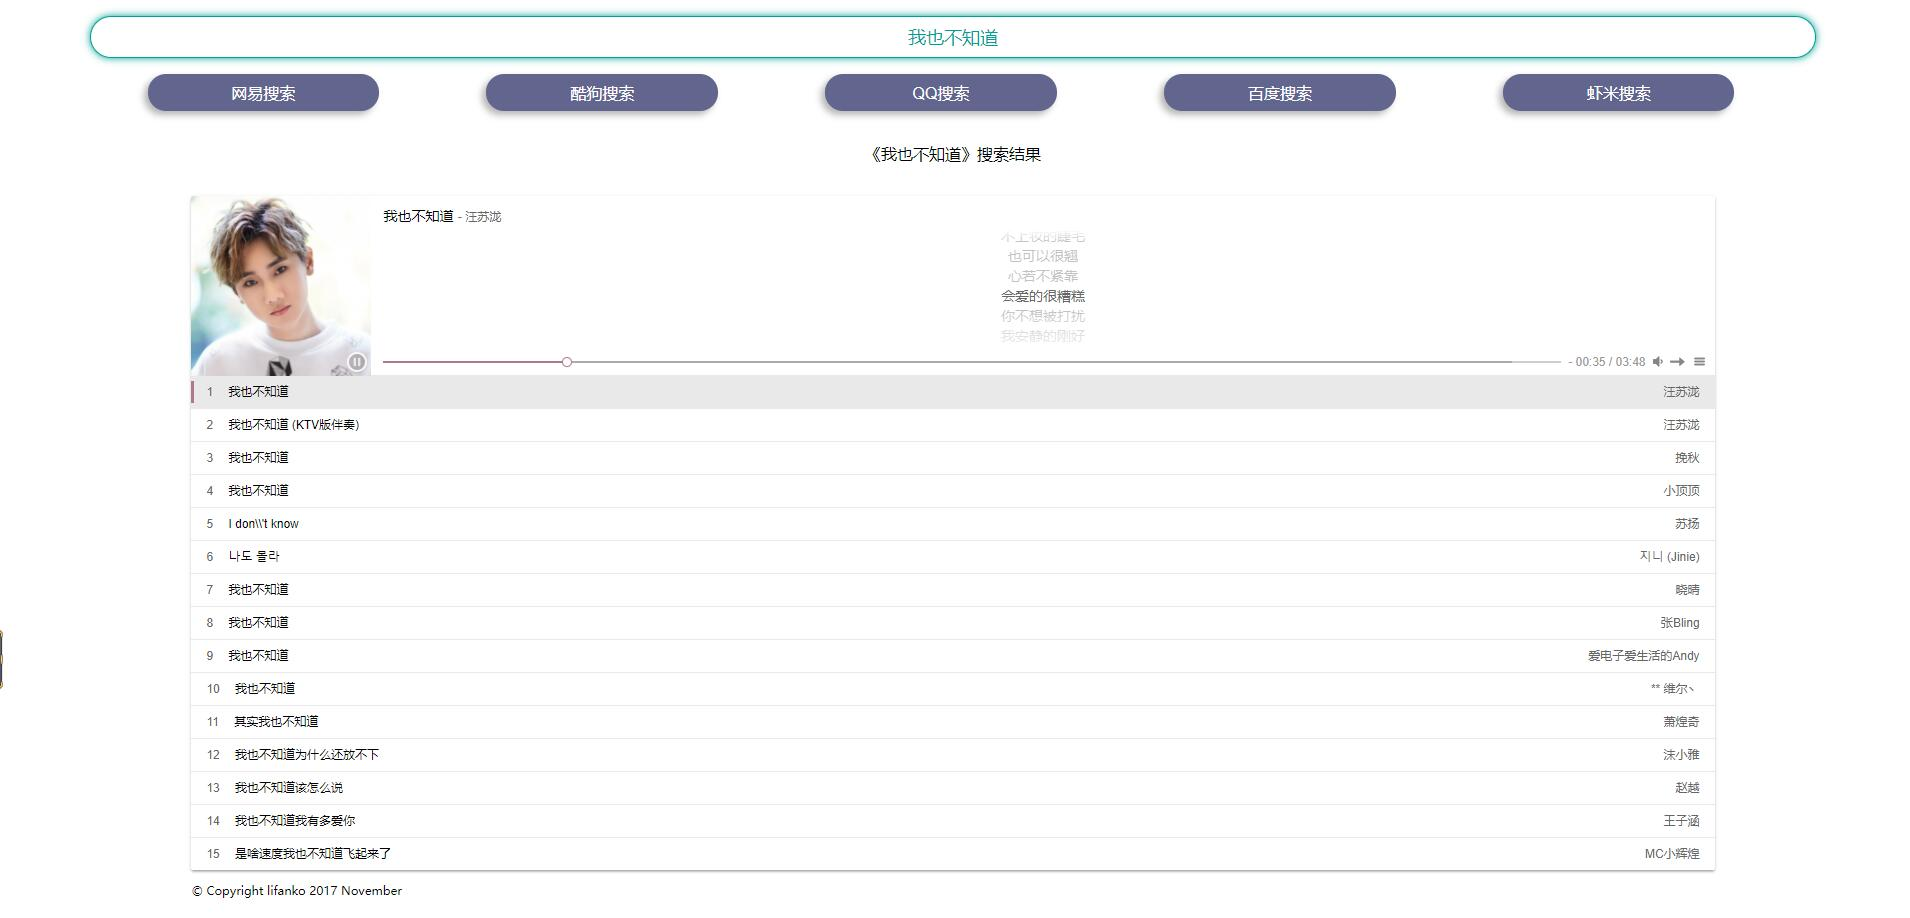
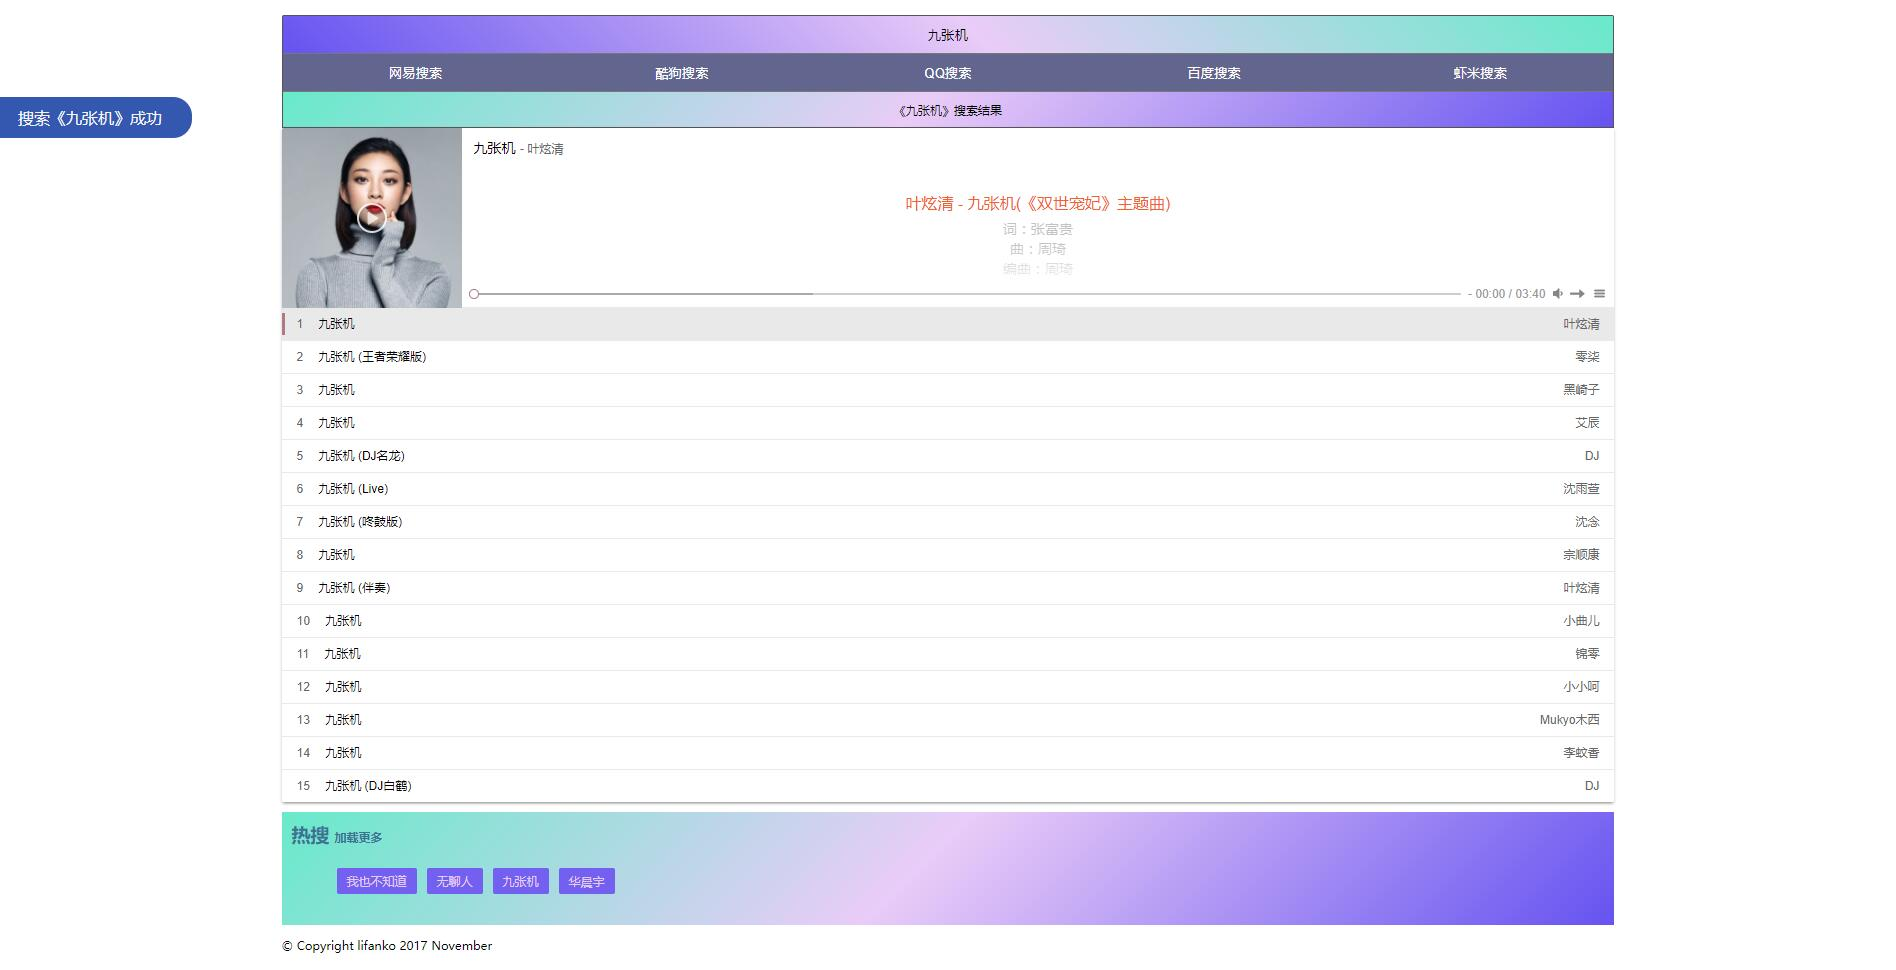
添加 热搜排名，提示交互 修改 歌词样式

diff --git a/index.html b/index.html
@@ -4,77 +4,104 @@
     <meta charset="UTF-8">
     <title>橡皮音乐</title>
     <style>
-        .box input {
-            display: block;
-            height: 30px;
-            text-align: center;
-            width: 90%;
+        .container {
+            width: 70%;
             margin: 1pc auto;
-            color: #009f95;
-            border: 1px #009f95 solid;
-            border-radius: 25px;
-            font-size: 18px;
-            outline: none;
-            padding: 5px;
-            box-shadow: 0 0 12px 0 #009f95;
+            min-width: 640px;
         }
 
-        .box .btns {
-            width: 90%;
-            margin: 0 auto;
+        .box {
+            border: #555 1px solid;
+            border-top-left-radius: 2px;
+            border-top-right-radius: 2px;
         }
 
-        .box button {
-            width: 13.5%;
-            margin: 0 3%;
+        .box input {
+            width: 100%;
+            height: 35px;
+            text-align: center;
+            border: none;
+            background-image: linear-gradient(-135deg, #69EACB 0%, #EACCF8 48%, #6654F1 100%);
+            border-bottom: #777 1px solid;
+        }
+
+        .box .btns button {
+            width: 20%;
+            padding: 10px 0;
             color: white;
             background-color: #62658d;
-            border-radius: 30px;
             border: none;
-            font-size: 16px;
-            padding: 0.5pc;
-            box-shadow: -4px 4px 10px 0 #b7b7b7;
-            outline: none;
             transition: all 0.3s 0s;
-            cursor: pointer;
+            border-bottom: #777 1px solid;
+            outline: none;
         }
 
-        .box button:hover {
-            background-color: #009f95;
-            color: white;
-            border-radius: 10px;
+        .box .btns button:hover {
+            background-color: #d34000;
+            cursor: pointer;
         }
 
         #search {
             text-align: center;
-            margin: 2pc 0;
+            height: 25px;
+            font-size: 12px;
+            padding-top: 10px;
+            background-image: linear-gradient(-225deg, #69EACB 0%, #EACCF8 48%, #6654F1 100%);
+            cursor: default;
         }
 
         #player {
-            width: 80%;
             margin: 0 auto;
+        }
+
+        .hotWord{
+            background-image: linear-gradient(-225deg, #69EACB 0%, #EACCF8 48%, #6654F1 100%);
+            color: #3b7294;
+            padding: 10px;
+            margin-top: 10px;
+        }
+
+        .hotWord h3{
+            margin: 0;
+        }
+
+        #hotSearch{
+            list-style: none;
+        }
+        #hotSearch li{
+            display: inline-block;
+            background-color: #7460f0;
+            color: #e2cdf5;
+            padding: 5px 10px;
+            margin: 5px;
+            font-size: 12px;
+            border-radius: 2px;
         }
     </style>
 </head>
 <body>
-<div class="box">
-    <input type="text" placeholder="输入歌曲名" id="name" autocomplete="off">
-    <div class="btns">
-        <button onclick="search('netease')">网易搜索</button>
-        <button onclick="search('kugou')">酷狗搜索</button>
-        <button onclick="search('tencent')">QQ搜索</button>
-        <button onclick="search('baidu')">百度搜索</button>
-        <button onclick="search('xiami')">虾米搜索</button>
+<div class="container">
+    <div class="box">
+        <input type="text" placeholder="输入 歌曲/歌手/专辑 以进行搜索" id="name" autocomplete="off">
+        <div class="btns">
+            <button onclick="search('netease')">网易搜索</button><button onclick="search('kugou')">酷狗搜索</button><button onclick="search('tencent')">QQ搜索</button><button onclick="search('baidu')">百度搜索</button><button onclick="search('xiami')">虾米搜索</button>
+        </div>
+        <div id="search">默认列表</div>
     </div>
+
+    <div id="player" class="aplayer"></div>
+    <div id="tip" style="color: whitesmoke"></div>
+    <div class="hotWord">
+        <h3>热搜 <a onclick="getHotSearch()" style="font-size: 12px;cursor: pointer;">加载更多</a></h3>
+        <ul id="hotSearch"></ul>
+    </div>
+
+    <p style="font-size: 12px">© Copyright lifanko 2017 November</p>
 </div>
-<div id="search">默认列表</div>
-
-<div id="player" class="aplayer"></div>
-
-<p style="margin-left: 10%;font-size: 12px">© Copyright lifanko 2017 November</p>
 
 <script type="text/javascript" src="http://cdn.lifanko.cn/jquery-2.1.1.min.js"></script>
 <script src="APlayer.min.js"></script>
+<script src="tip.min.js"></script>
 <script>
     //初始化播放器，使用默认列表
     var player = new APlayer({
@@ -191,6 +218,7 @@
                 name: name
             }, function (data) {
                 search.innerText = "《" + name + "》搜索结果";
+                tip("搜索《"+ name +"》成功", "10%", "1", 3000, false);
 
                 var buffer = eval("(" + data + ")");    //JS {} 块屏蔽处理
 
@@ -209,12 +237,34 @@
                 });
 
             }).error(function () {
-                search.innerHTML = "网络错误，请稍后重试";
+                tip("网络错误，请稍后再试", "10%", "1", 3000, false);
             });
         } else {
-            search.innerHTML = "请输入歌曲名";
+            tip("请输入 歌曲/歌手/专辑 后搜索", "10%", "1", 3000, false);
         }
     }
+
+    var hotSearchNum = 10;
+    function getHotSearch(){
+        $.get("eraser.php", {
+            type: 'hotSearch',
+            max: hotSearchNum
+        }, function (data) {
+            document.getElementById("hotSearch").innerHTML = data;
+
+            if(hotSearchNum>10){
+                tip("加载成功！", "85%", "1", 1000, false);
+            }
+
+            hotSearchNum += 10; //加载成功后才允许在加载更多
+        }).error(function () {
+            tip("加载失败！请稍后重试", "85%", "1", 1000, false);
+        });
+    }
+
+    getHotSearch(); //打开页面先加载一次热搜内容
+
+    tip("欢迎使用橡皮音乐", "25%", "1", 2000, false);
 </script>
 </body>
 </html>

diff --git a/tip.min.js b/tip.min.js
@@ -1,0 +1,2 @@
+/** tip.min.js v0.1 Created by lifanko on 2017/6/8 https://github.com/lifankohome/tip-js**/
+function tip(e,f,g,h,c){var d=e.length+4,a=document.getElementById("tip");a.style.textAlign="center";a.style.position="fixed";a.style.top=f;a.style.zIndex=g;c?(a.style.left="",a.style.right="0",a.innerHTML="\x3cspan id\x3d'span' style\x3d'background-color: #3458b0;display: inline-block;padding: 10px 30px;border-bottom-left-radius: 19px;border-top-left-radius: 19px;transition: all 0.5s 0s'\x3e"+e+"\x3c/span\x3e"):(a.style.right="",a.style.left="0",a.innerHTML="\x3cspan id\x3d'span' style\x3d'background-color: #3458b0;display: inline-block;padding: 10px 30px;border-bottom-right-radius: 19px;border-top-right-radius: 19px;transition: all 0.5s 0s'\x3e"+e+"\x3c/span\x3e");var b=document.getElementById("span");c?b.style.marginRight="-"+d+"pc":b.style.marginLeft="-"+d+"pc";var k=setInterval(function(){c?b.style.marginRight="0":b.style.marginLeft="0";clearInterval(k)},10),l=setInterval(function(){c?b.style.marginRight="-"+d+"pc":b.style.marginLeft="-"+d+"pc";clearInterval(l)},10+h)};

diff --git a/eraser.php b/eraser.php
@@ -15,7 +15,8 @@ $Eraser = new Meting($source);
 
 $Eraser->format(true); // 启用格式化功能
 
-function jsonKeyClear($json) {  //去掉jsonKey的引号，适应js数据格式
+function jsonKeyClear($json)
+{  //去掉jsonKey的引号，适应js数据格式
     $json = preg_replace('/"(\w+)"(\s*:\s*)/is', '$1$2', $json);   //去掉key的双引号
     return $json;
 }
@@ -40,12 +41,34 @@ switch (getParam('type')) {
             $name = $value['name'];
             $artist = $value['artist'][0];
 
-            $song = ['title'=>$name,'author'=>$artist,'url'=>$url,'pic'=>$pic,'lrc'=>$lrc];
+            $song = ['title' => $name, 'author' => $artist, 'url' => $url, 'pic' => $pic, 'lrc' => $lrc];
 
-            array_push($songList,$song);
+            array_push($songList, $song);
         }
 
         echo jsonKeyClear(json_encode($songList));
+
+        recordHotSearch($s);    //搜索词记录
+
+        break;
+    case 'hotSearch':  //获取热搜词
+        if(empty($max = getParam('max'))){ //显示的关键词数量
+            $max = 10;
+        }
+
+        $jsonHotSearch = hotSearch();
+        if (!empty($jsonHotSearch)) {
+            $arrHotSearch = json_decode($jsonHotSearch, true);  //解析为数组格式
+            arsort($arrHotSearch);  //按从多到少排序
+            $arrHotSearch = array_keys($arrHotSearch);  //将关键词（键）保存为新数组
+
+            $hotWordNum = count($arrHotSearch);
+            for ($i = 0; $i < ($hotWordNum > $max ? $max : $hotWordNum); $i++) {    //最多显示$max个热搜词
+                echo "<li>{$arrHotSearch[$i]}</li>";
+            }
+        } else {  //文件为空
+            echo "<li>无</li>";
+        }
 
         break;
     default:
@@ -55,4 +78,51 @@ switch (getParam('type')) {
 function getParam($key, $value = '')
 {
     return trim($key && is_string($key) ? (isset($_POST[$key]) ? $_POST[$key] : (isset($_GET[$key]) ? $_GET[$key] : $value)) : $value);
+}
+
+function recordHotSearch($hotWord)
+{
+    $jsonHotSearch = hotSearch();
+
+    if (!empty($jsonHotSearch)) {
+        $arrHotSearch = json_decode($jsonHotSearch, true);  //解析为数组格式
+        if (array_key_exists($hotWord, $arrHotSearch)) { //有记录则加一
+            $arrHotSearch[$hotWord] += 1;
+        } else {  //无记录则在数组中创建
+            $arrHotSearch[$hotWord] = 1;
+        }
+
+        $jsonHotSearch = json_encode($arrHotSearch);
+
+        hotSearch($jsonHotSearch);
+    } else {  //文件为空
+        $arrHotSearch = [$hotWord => 1];
+        $jsonHotSearch = json_encode($arrHotSearch);
+        hotSearch($jsonHotSearch);
+    }
+}
+
+function hotSearch($new = '')
+{
+    $filePath = "hotSearch.txt";
+
+    if (file_exists($filePath)) {
+        $fp = fopen($filePath, "r");
+        $str = fread($fp, filesize($filePath));     //指定读取大小，这里把整个文件内容读取出来
+
+        if (empty($new)) {  //$new为空时是读取状态，不为空时为写入状态
+            fclose($fp);
+
+            return $str;
+        } else {
+            $fp = fopen($filePath, "w");
+            flock($fp, LOCK_EX);
+            fwrite($fp, $new);
+            flock($fp, LOCK_UN);
+            fclose($fp);
+
+            return true;
+        }
+    }
+    return false;
 }
